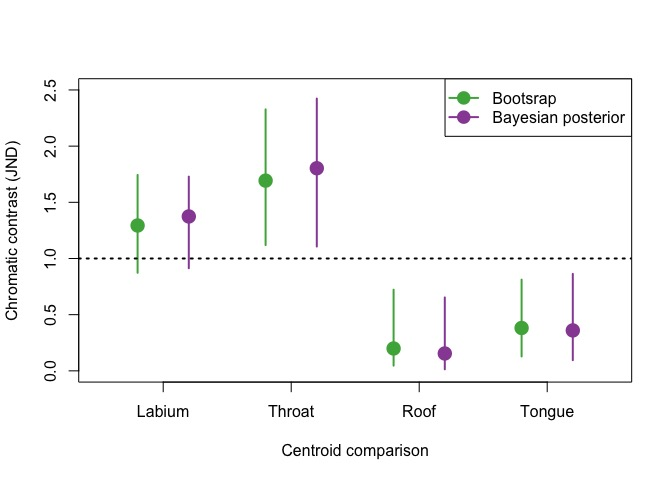
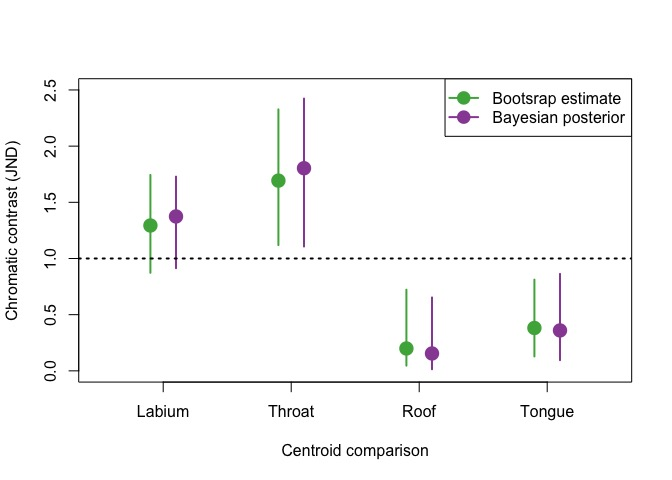
editing

diff --git a/Rmd/lizardexample.md b/Rmd/lizardexample.md
@@ -1,15 +1,12 @@
-Worked examples
+Worked examples and different approaches
 ================
 
--   [Worked example with different approaches](#worked-example-with-different-approaches)
-    -   [The Data](#the-data)
-    -   [Group separation, approach 1: distance-based PERMANOVA](#group-separation-approach-1-distance-based-permanova)
-    -   [Group separation, approach 2: Cartesian MANOVA](#group-separation-approach-2-cartesian-manova)
-    -   [Test for above-threshold distance using bootstrap](#test-for-above-threshold-distance-using-bootstrap)
-    -   [Bayesian approach using MCMCglmm](#bayesian-approach-using-mcmcglmm)
-
-Worked example with different approaches
-========================================
+-   [The Data](#the-data)
+-   [Group separation, approach 1: distance-based PERMANOVA](#group-separation-approach-1-distance-based-permanova)
+-   [Group separation, approach 2: Cartesian MANOVA](#group-separation-approach-2-cartesian-manova)
+-   [Test for above-threshold distance using bootstrap](#test-for-above-threshold-distance-using-bootstrap)
+-   [Bayesian approach using MCMCglmm](#bayesian-approach-using-mcmcglmm)
+-   [Comparing Bayesian vs. Bootstrap estimates](#comparing-bayesian-vs.-bootstrap-estimates)
 
 First, we need to install the bleeding edge version of pavo:
 
@@ -72,11 +69,12 @@ Reflectance data from four body regions of male and female *Ctenophorus ornatus*
 Calculate deltaS according to conspecific (tetrachromatic) visual system
 
 ``` r
-specs <- list(all = as.rspec(read.csv('data/dichromatism/combined.csv'), interp = FALSE),
+specs <- list(
               lab = as.rspec(read.csv('data/dichromatism/lab.csv'), interp = FALSE),
               throat = as.rspec(read.csv('data/dichromatism/throat.csv'), interp = FALSE),
               roof = as.rspec(read.csv('data/dichromatism/roof.csv'), interp = FALSE),
-              tongue = as.rspec(read.csv('data/dichromatism/tongue.csv'), interp = FALSE))
+              tongue = as.rspec(read.csv('data/dichromatism/tongue.csv'), interp = FALSE)
+              )
 
 # Ctenophorus ornatus
 liz_vis <- sensmodel(c(360, 440, 493, 571)) 
@@ -142,17 +140,19 @@ Group separation, approach 1: distance-based PERMANOVA
 
 ``` r
 # Setup distance matrices & groupings for each body part
-mat <- list(all = distmat(deltaS$all),
+mat <- list(
             lab = distmat(deltaS$lab),
             throat = distmat(deltaS$throat),
             roof = distmat(deltaS$roof),
-            tongue = distmat(deltaS$tongue))
+            tongue = distmat(deltaS$tongue)
+            )
 
-group <- list(all = paste0(substring(rownames(as.matrix(mat$all)), nchar(rownames(as.matrix(mat$all)))), substring(rownames(as.matrix(mat$all)), 1, 1)),
+group <- list(
               lab = substring(rownames(as.matrix(mat$lab)), 1, 1),
               throat = substring(rownames(as.matrix(mat$throat)), 1, 1),
               roof = substring(rownames(as.matrix(mat$roof)), 1, 1),
-              tongue = substring(rownames(as.matrix(mat$tongue)), 1, 1))
+              tongue = substring(rownames(as.matrix(mat$tongue)), 1, 1)
+              )
 ```
 
 Fist, let's test the assumption of homogeneity of variances
@@ -221,12 +221,7 @@ TukeyHSD(betadisper(mat$lab, group$lab))
     ## M-F -0.4365211 -0.7426987 -0.1303434 0.0059932
 
 ``` r
-cat('Sample sizes: \n')
-```
-
-    ## Sample sizes:
-
-``` r
+# Sample sizes
 table(group$lab)
 ```
 
@@ -444,9 +439,12 @@ Bayesian approach using MCMCglmm
 
 we can extract both statistical and perceptual information from the posterior distribution of a bayesian analysis using a multi-response model and the package MCMCglmm. In this analysis, we will estimate the variance-covariance structure, so the assumption of homogeneity of variances is relaxed.
 
-Below we will run the models (we will only show the verbose output for the tests on the labials, but the code below will obtain the information for all body parts). Before we do that, we will center all cartesian variables on the female means --- this way, male estimates and pMCMC can be interpreted as being different from zero:
+Below we will run the models (we will only show the verbose output for the tests on the labials, but the code below will obtain the information for all body parts).
+
+Before we do that, we will center all cartesian variables on the female means --- this way, since the model does not have an intercept, male estimates and pMCMC can be interpreted as the effect of sex on each response (X, Y and Z):
 
 ``` r
+# Centering variables
 pxyz$lab[, -4] <- sweep(as.matrix(pxyz$lab[,-4]), 2, 
                         as.matrix(aggregate(pxyz$lab[,-4], list(pxyz$lab[,4]), mean)[1,-1]), '-') 
 
@@ -458,6 +456,8 @@ pxyz$roof[, -4] <- sweep(as.matrix(pxyz$roof[,-4]), 2,
 
 pxyz$tongue[, -4] <- sweep(as.matrix(pxyz$tongue[,-4]), 2, 
                         as.matrix(aggregate(pxyz$tongue[,-4], list(pxyz$tongue[,4]), mean)[1,-1]), '-') 
+
+# Running MCMCglmm models with default priors
 
 mcmclab <- MCMCglmm(
   fixed = cbind(x,y,z) ~ trait:group - 1,
@@ -510,7 +510,7 @@ plot(mcmclab$Sol, density = FALSE)
 
 ![](../output/figures/examples/lizard_fig_unnamed-chunk-9-2.jpeg)
 
-We can see that the posterior estimates approximate the data well:
+We can see that the posterior estimates approximate the data fairly well (though the chain could probably have been run for a little longer):
 
 ``` r
 summary(mcmclab)
@@ -564,7 +564,9 @@ matrix(summary(mcmclab$Sol)$statistics[,'Mean'], nrow=2, byrow=TRUE)
     ## [1,]  0.005192422  0.007171317 -0.001778172
     ## [2,] -1.246883273 -0.327334010  0.065786102
 
-The results above already indicate that the groups are statistically different along one of the axes (x). Some people might consider this to still be subject to multiple comparisons, because we are considering groups to be different if they are different in at least one dimension. We don't agree, because the distributions of each response variables are being calculated while taking into consideration their covariances --- so it's not the same as, say, testing each of them individually. Nonetheless, we can conduct a test analogous to a Wald test, and test if **ALL** responses are different than zero, by estimating an hyperdimensional ellipsoid representing its joint credible interval:
+The results above already indicate that the groups are statistically different along one of the axes (x). Some people might consider this to still be subject to issues of multiple comparisons, because we are considering groups to be different if they are different in at least one dimension. We don't agree, because the distributions of each response variables are not being calculated independently but accounting for their multivariate nature and estimating their covariances --- so it's not the same as, say, testing each of them individually.
+
+Nonetheless, we can conduct a test analogous to a Wald test, and test if **all** responses are **jointly** different than zero, by estimating the ellipsoid representing its joint credible interval:
 
 ``` r
 # function modified from: https://stat.ethz.ch/pipermail/r-help/2006-September/113184.html
@@ -581,7 +583,8 @@ multimcmcpval <- function(samp)
                     cbind(0, t(samp)) - colMeans(samp),
                     transpose = TRUE)
    sqdist <- colSums(std * std)
-   sum(sqdist[-1] > sqdist[1])/nrow(samp)
+   #sum(sqdist[-1] > sqdist[1])/nrow(samp)
+   mean(sqdist[-1] > sqdist[1])
 }
 
 multimcmcpval(mcmclab$Sol[,4:6])
@@ -607,6 +610,8 @@ multimcmcpval(mcmctongue$Sol[,4:6])
 
     ## [1] 0.033
 
+Interestingly, the tongue is coming out as significantly different, likely a result of the differences in distribution between males and females (see first figure).
+
 Now we can test if the posterior distances between centroids are larger than 1JND
 
 ``` r
@@ -623,6 +628,9 @@ plot(density(dmcmctongue), main='Tongue'); abline(v=1, lty=3, lwd=2)
 ```
 
 ![](../output/figures/examples/lizard_fig_unnamed-chunk-12-1.jpeg)
+
+Comparing Bayesian vs. Bootstrap estimates
+------------------------------------------
 
 We can compare what we obtain from the Bayesian approach with the results from the Bootstrap:
 
@@ -649,20 +657,20 @@ row.names(credibleints) <- c("Labium", "Throat", "Roof", "Tongue")
 
 palette <- rcbalpha(1, 4, 'Set1')
 
-plot(y=bootres[,1], x=c(0.8, 1.8, 2.8, 3.8), xlim=c(0.5,4.5), ylim=c(0, 2.5), pch=21, col=NULL, bg=palette[3], cex=2, xaxt='n', xlab='Centroid comparison', ylab='Chromatic contrast (JND)')
+plot(y=bootres[,1], x=c(0.9, 1.9, 2.9, 3.9), xlim=c(0.5,4.5), ylim=c(0, 2.5), pch=21, col=NULL, bg=palette[3], cex=2, xaxt='n', xlab='Centroid comparison', ylab='Chromatic contrast (JND)')
 
-segments(c(0.8, 1.8, 2.8, 3.8), bootres[,2], c(0.8, 1.8, 2.8, 3.8), bootres[,3], lwd=2, col=palette[3])
+segments(c(0.9, 1.9, 2.9, 3.9), bootres[,2], c(0.9, 1.9, 2.9, 3.9), bootres[,3], lwd=2, col=palette[3])
 
-points(y=credibleints[,3], x=c(1.2, 2.2, 3.2, 4.2), pch=21, bg=palette[4], cex=2, col=NULL)
+points(y=credibleints[,3], x=c(1.1, 2.1, 3.1, 4.1), pch=21, bg=palette[4], cex=2, col=NULL)
 
-segments(c(1.2, 2.2, 3.2, 4.2), credibleints[,1], c(1.2, 2.2, 3.2, 4.2), credibleints[,2], lwd=2, col=palette[4])
+segments(c(1.1, 2.1, 3.1, 4.1), credibleints[,1], c(1.1, 2.1, 3.1, 4.1), credibleints[,2], lwd=2, col=palette[4])
 
 abline(h=1, lty=3, lwd=2)
 
 
 axis(1, at=1:4, labels=rownames(bootres))
 
-legend('topright', pch=21, pt.cex=1.6, col=palette[3:4], lwd=2, pt.bg=palette[3:4], legend=c('Bootsrap', 'Bayesian posterior'))
+legend('topright', pch=21, pt.cex=1.6, col=palette[3:4], lwd=2, pt.bg=palette[3:4], legend=c('Bootsrap estimate', 'Bayesian posterior'))
 ```
 
 ![](../output/figures/examples/lizard_fig_unnamed-chunk-13-1.jpeg)
